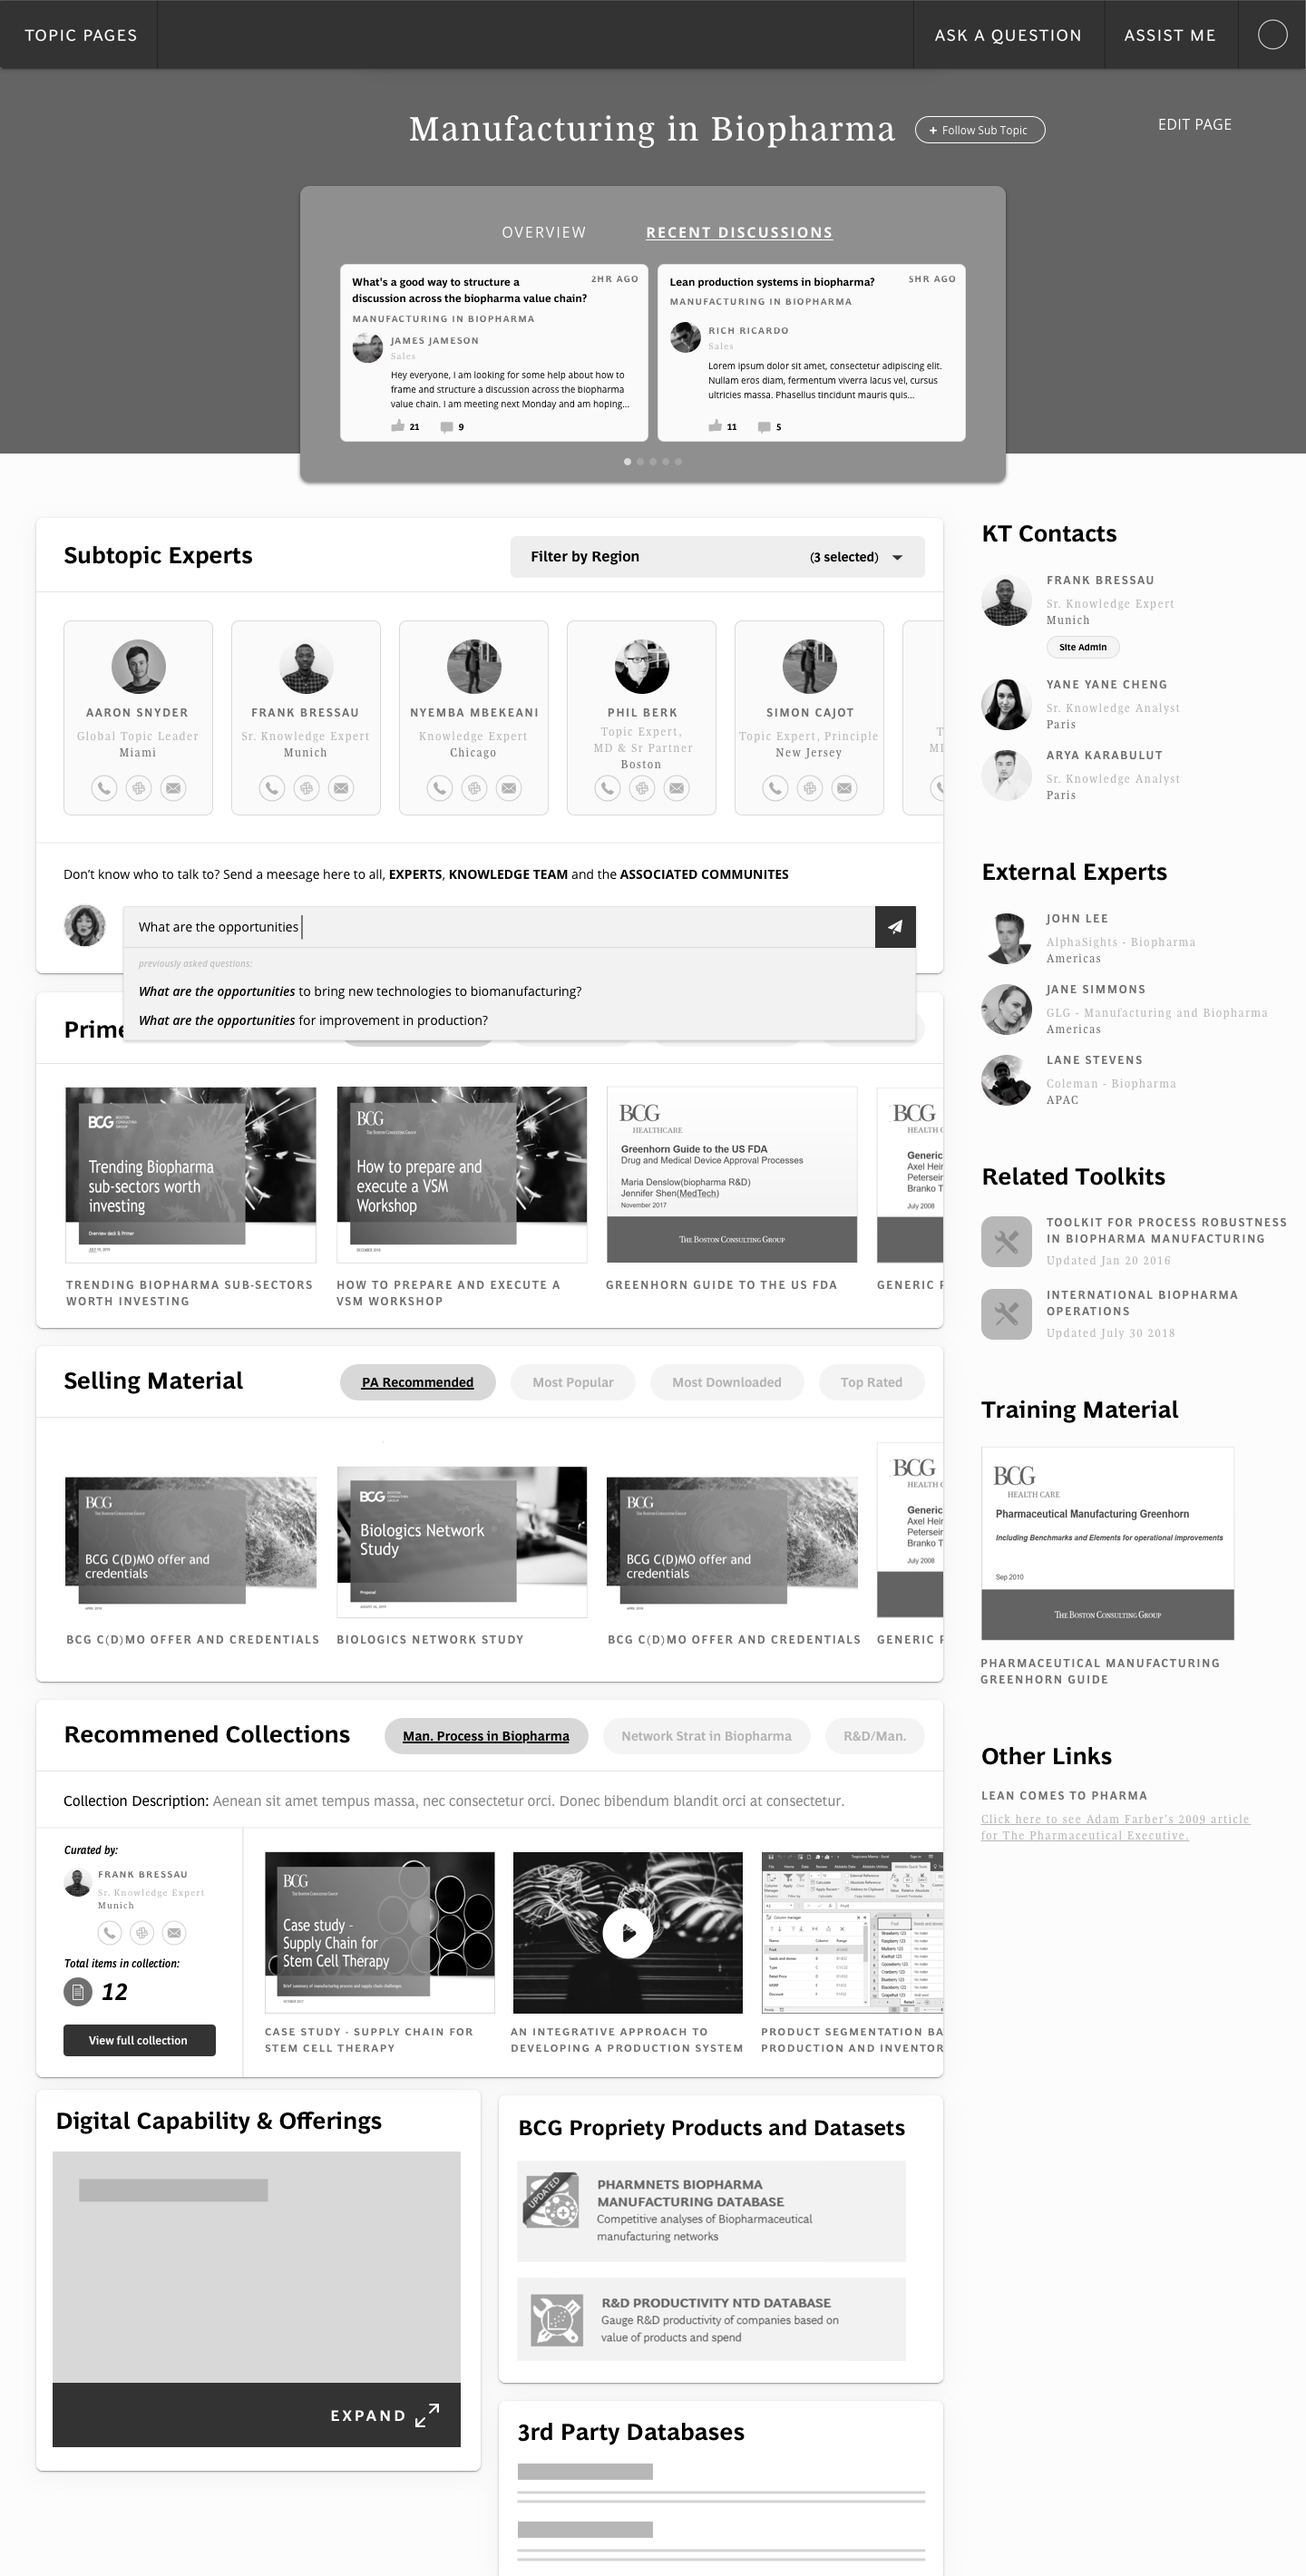
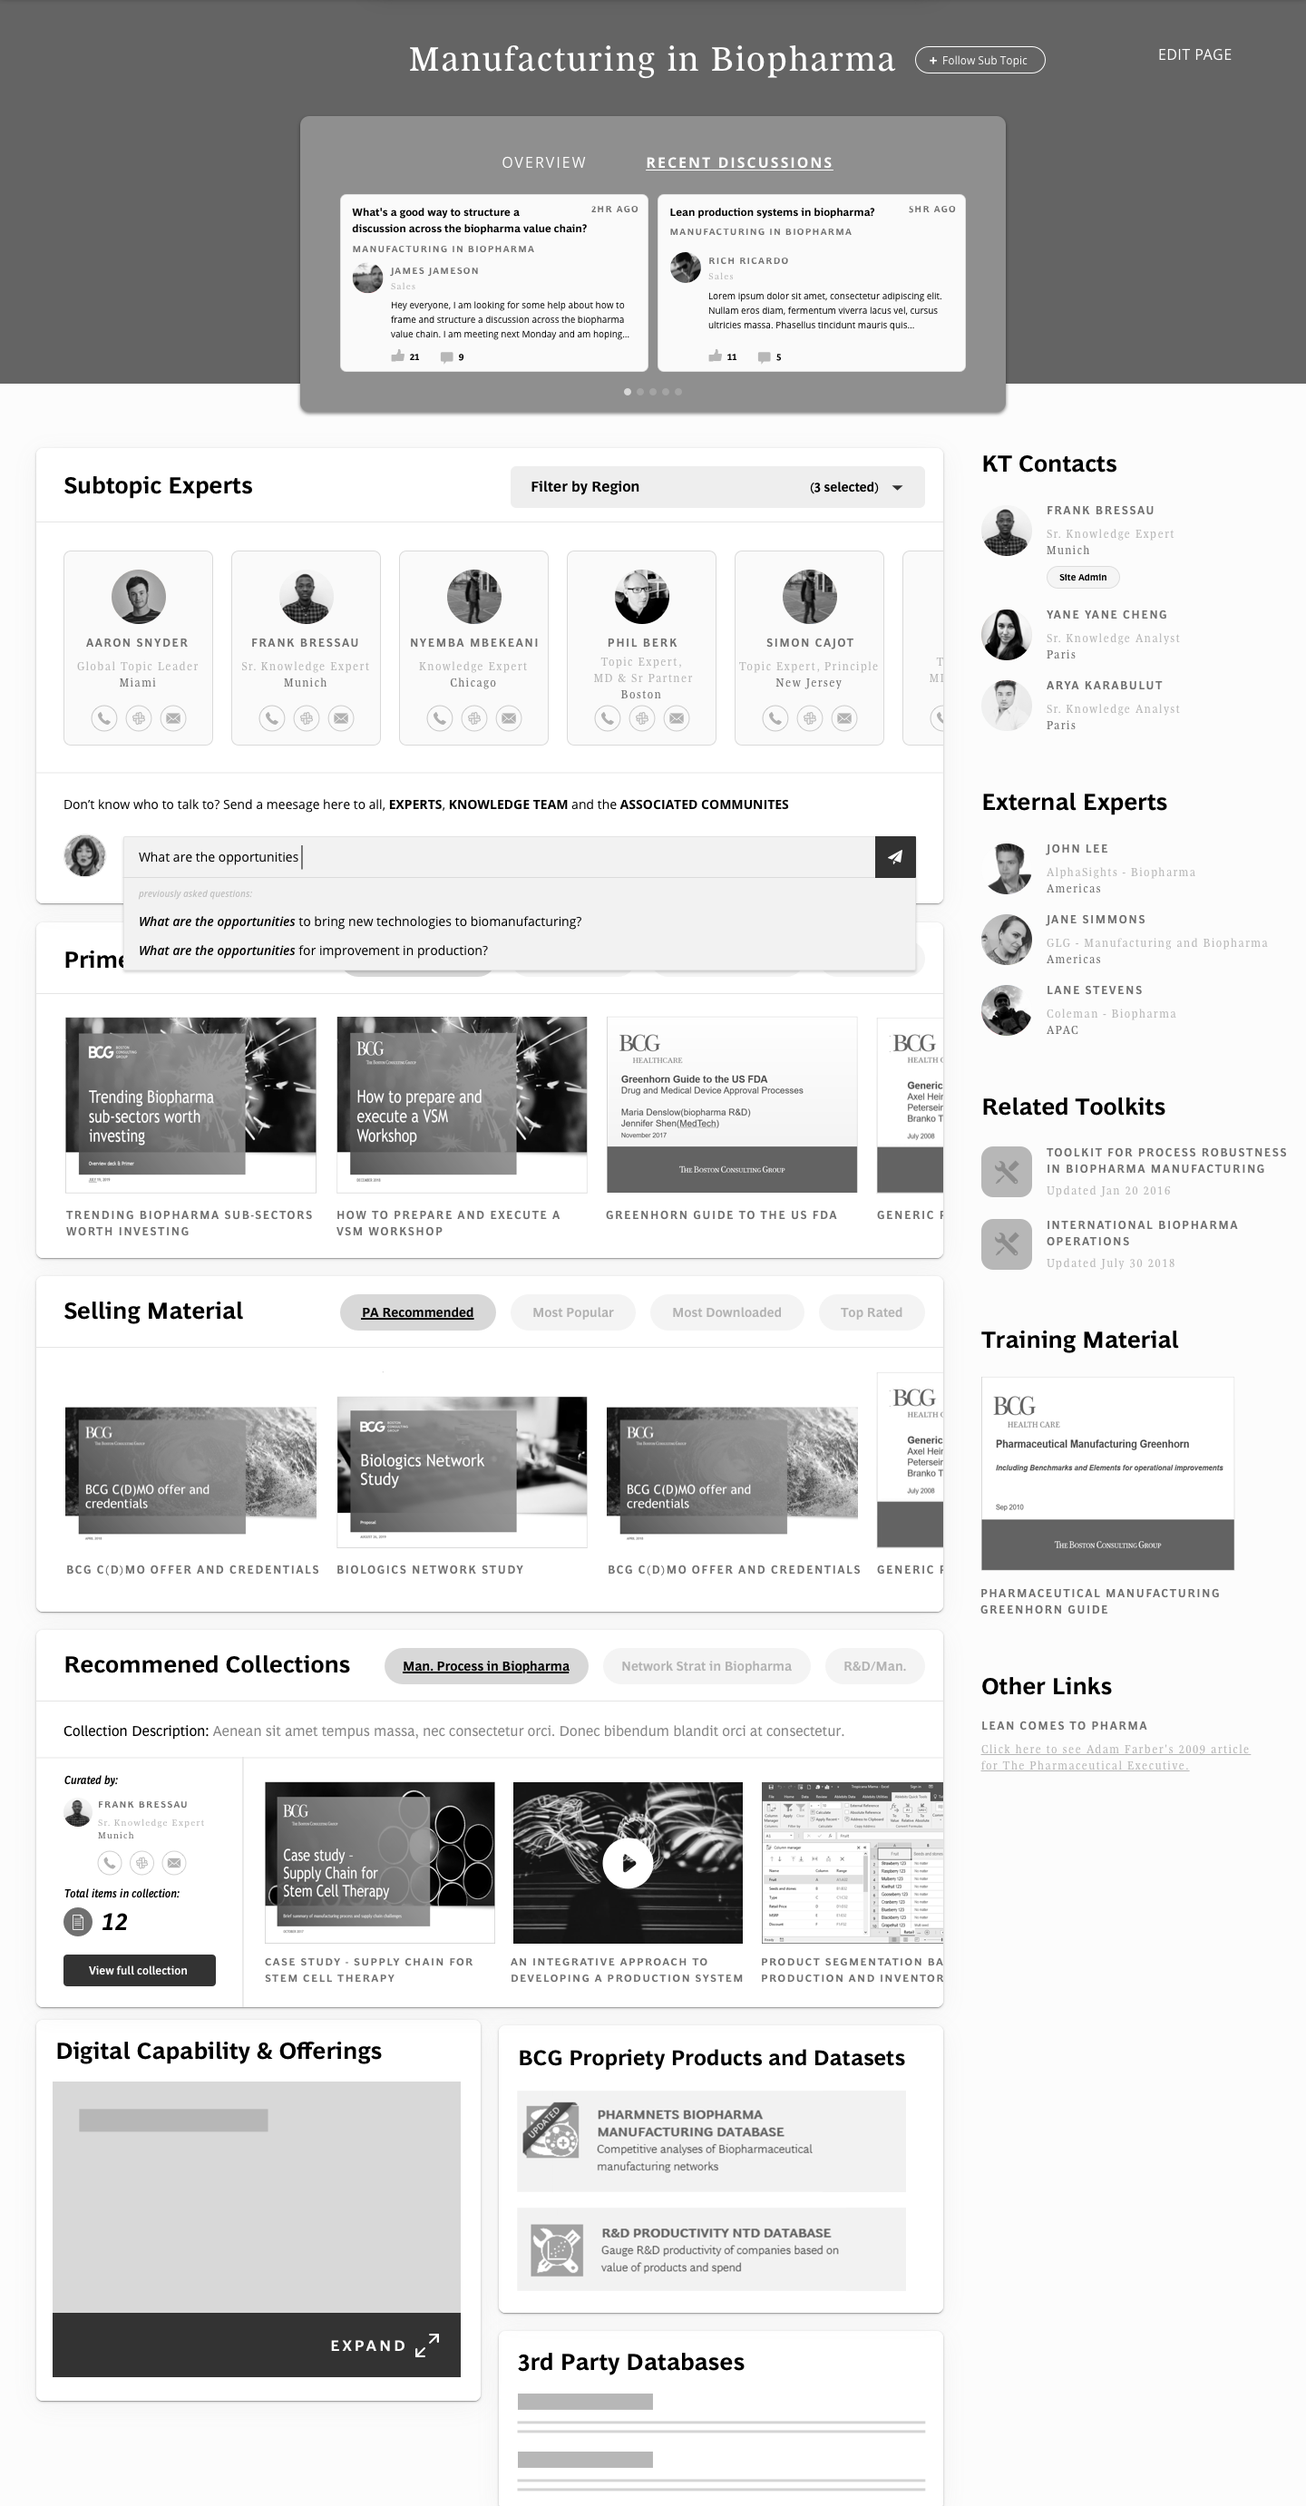
update header

Changed region(s): [[0.0, 0.0, 1.0, 0.996], [0.6562, 0.3113, 0.7188, 0.3735], [0.25, 0.9338, 0.3438, 0.9649]]

diff --git a/pages/levels.scss b/pages/levels.scss
@@ -11,12 +11,33 @@ body,
     min-height: 100%;
     overflow-y: auto;
 
+    header {
+        position: relative;
+        background: #333333;
+        display: flex;
+        flex-direction: row;
+        height: 74px;
+        width: 100%;
+        justify-content: space-between;
+
+        .leftside {
+            width: 172px;
+            border-right: 2px solid #262626;
+        }
+
+        .rightside {
+            background: url(../static/rightside.png) 0 0 no-repeat;
+            background-size: cover;
+            width: 426px;
+        }
+    }
+
     .dropdown-wrapper {
-        position: absolute;
+
         top: 0px;
         left: 0;
         width: 100%;
-        height: 56px;
+        height: 74px;
 
         // width: 154px;
         // height: 65px;
@@ -35,7 +56,6 @@ body,
 
     img {
         width: 100%;
-        margin-top: 56px;
         padding-bottom: 20px;
     }
 

diff --git a/pages/levels.js b/pages/levels.js
@@ -29,7 +29,13 @@ const SEntry = () => {
             <Head>
                 <title>Search Entry</title>
             </Head>
-            <Dropdown {...state.select} setOptions={setOptions} />
+            <header>
+                <div className="leftside">
+                    <Dropdown {...state.select} setOptions={setOptions} />
+                </div>
+                <div className="rightside"></div>
+            </header>
+
             <img src={state.images[state.currentImage]} />
         </div>
     )
